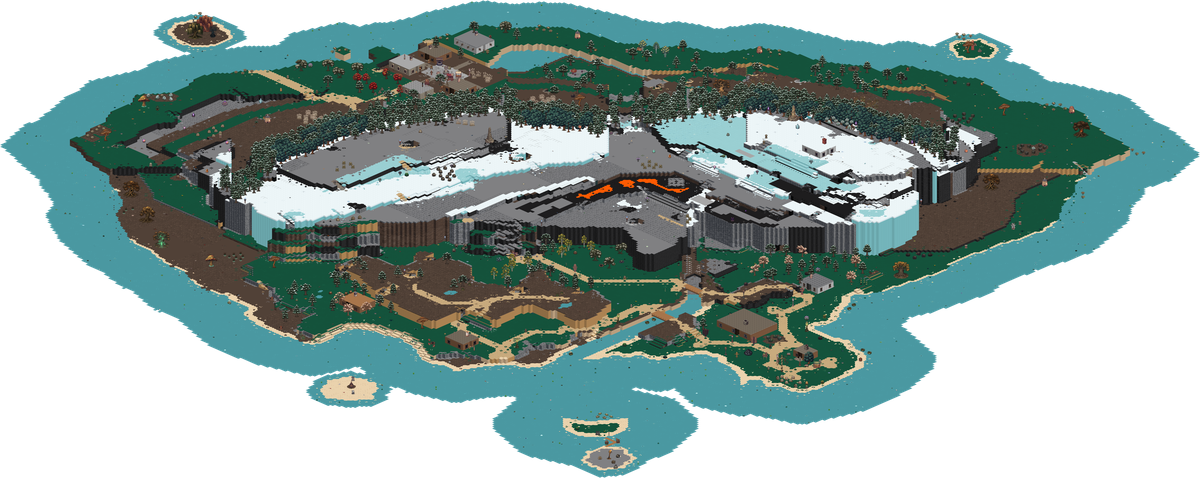
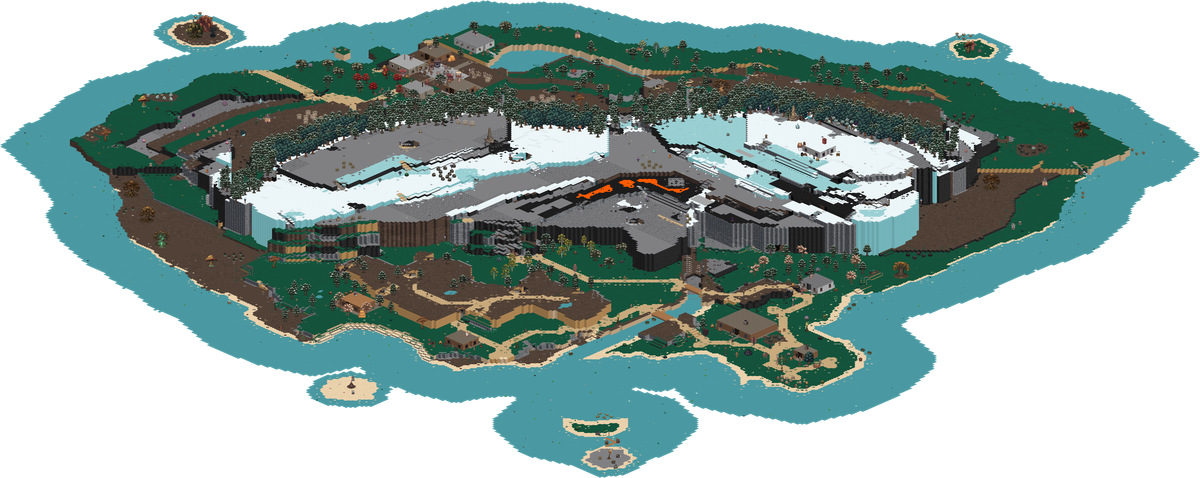
render3: details at his 1 in 100, never on a ramp, never touching — the game's rule
render3 rolled ground details at 1/56 (the game's pre-slider rate) with no
alone rule and none of the game's ramp veto, so its pictures — and the
minimap in the map tab — carried details the world does not draw: 13 in one
28x26 window where the game draws 5 (maintainer 2026-09-19: 'on your image
I can see Scenery details I don't have in the game').

slope_index / detail_roll / detail_alone mirror tiles3's slopeIndexAt /
detailRoll / detailAlone on the same LCG and seed. Measured over the_game
against the game's resolver at 1/100: all 1,368 of its details drawn, 30
extra — 21 cells its cliff-foot vote composes (the port still owed) and 9
cells it never resolves. tiles3.test.ts 13/13. Minimap and overview
re-rendered; WORLD3.md's details row states the rule.

Claude-Session: https://claude.ai/code/session_013KdMLoibcfyNKLCYd6nBek

diff --git a/maps2/pipeline/render3.py b/maps2/pipeline/render3.py
@@ -317,15 +317,79 @@ def top_face_only(surf):
     return im
 
 
-DETAIL_FREQ = 1 / 56.0        # "once in a while"; overridable per ground by
-                              # live/tuning/tile_details.json if the wiki ever
-                              # publishes a rate (read below, absent today)
+DETAIL_FREQ = 1 / 100.0       # HIS DIAL'S DEFAULT: one detail in every 100
+                              # field cells (games2 detailrate.ts
+                              # DETAIL_EVERY_DEFAULT, maintainer 2026-09-13, off
+                              # the live game). 1/56 was the rate the game rolled
+                              # before he had a slider, and this renderer kept it
+                              # for six days: in one 28x26 window it drew 13
+                              # details where the game draws 5 (maintainer
+                              # 2026-09-19: "on your image I can see Scenery
+                              # details I don't have in the game"). Overridable
+                              # per ground by live/tuning/tile_details.json if
+                              # the wiki ever publishes a rate (absent today).
 _DETAIL_RATE = {}
 try:
     _DETAIL_RATE = json.load(open(os.path.join(
         REPO, "live", "tuning", "tile_details.json"))).get("rate", {})
 except Exception:
     pass
+
+
+def slope_index(g, L, ground, x, y, zl):
+    """THE SLOPE BITMASK for one cell (the game's `slopeIndexAt`): the corner
+    bit is set when a cell touching that corner is HIGHER and made of the SAME
+    ground. Corner order is the Wang order - NW, NE, SW, SE - bit `8 >> i`."""
+    idx = 0
+    for bit, (cxx, cyy) in enumerate(((x, y), (x + 1, y),
+                                      (x, y + 1), (x + 1, y + 1))):
+        for ax, ay in ((cxx - 1, cyy - 1), (cxx, cyy - 1),
+                       (cxx - 1, cyy), (cxx, cyy)):
+            if L(ax, ay) > zl and g(ax, ay) == ground:
+                idx |= 8 >> bit
+                break
+    return idx
+
+
+def detail_roll(ground, x, y):
+    """THE DETAIL ROLL OF ONE CELL (the game's `detailRoll`): `u` against the
+    ground's rate, then the pick draw. None on the room floor, without a pool,
+    or when the roll fails. A pure function of (ground, x, y) and the rate, so
+    the game's three threads and this renderer agree on a cell AND on its
+    neighbours, which `detail_alone` needs."""
+    if ground == "parquet_floor":
+        return None
+    if not detail_pool(ground):
+        return None
+    rate = float(_DETAIL_RATE.get(ground, DETAIL_FREQ))
+    rd = _rng((x * 83492791) ^ (y * 2654435761) ^ 0xd47a)
+    u = rd()
+    return (u, rd()) if u < rate else None
+
+
+def detail_alone(g, L, x, y, u):
+    """NO TWO DETAILS TOUCHING (the game's `detailAlone`, maintainer 2026-09-13:
+    "a tile detail is a tile that doesn't look good repeated, but look very
+    good alone"). Among the raw winners of an 8-neighbourhood the SMALLEST roll
+    keeps its detail and every other yields - symmetric and order-free, so a
+    streaming window, a worker and this full sweep agree with no shared state.
+    A neighbour on a ramp never draws, so it never vetoes; a neighbour a fade
+    took still does."""
+    for dy in (-1, 0, 1):
+        for dx in (-1, 0, 1):
+            if not dx and not dy:
+                continue
+            nx, ny = x + dx, y + dy
+            gn = g(nx, ny)
+            if not gn:
+                continue
+            r = detail_roll(gn, nx, ny)
+            if not r or r[0] > u:
+                continue
+            if slope_index(g, L, gn, nx, ny, L(nx, ny)):
+                continue
+            return False
+    return True
 
 
 def detail_pool(ground):
@@ -1592,17 +1656,7 @@ def render(doc, x0=0, y0=0, x1=None, y1=None, scale=1.0, log=print,
                 # corner is higher and made of the same ground. This is what
                 # makes a path uphill read as a climb instead of a stack of
                 # flat diamonds (maintainer 2026-08-30).
-                sidx = 0
-                for bit, (cxx, cyy) in enumerate(((x, y), (x + 1, y),
-                                                  (x, y + 1), (x + 1, y + 1))):
-                    hi = False
-                    for ax, ay in ((cxx - 1, cyy - 1), (cxx, cyy - 1),
-                                   (cxx - 1, cyy), (cxx, cyy)):
-                        if L(ax, ay) > zl and g(ax, ay) == gr:
-                            hi = True
-                            break
-                    if hi:
-                        sidx |= 8 >> bit
+                sidx = slope_index(g, L, gr, x, y, zl)
                 if sidx:
                     sl = slope_tile(gr, sidx, x, y)
                     if sl is not None:
@@ -1667,15 +1721,16 @@ def render(doc, x0=0, y0=0, x1=None, y1=None, scale=1.0, log=print,
                 # DETAILS: once in a while, one of his top-approved tops -
                 # wherever no fade landed (a band cell whose roll failed
                 # included), never on the room floor (the game's rule: a
-                # parquet room is one floor, not a floor with pebbles).
-                if gr == "parquet_floor":
+                # parquet room is one floor, not a floor with pebbles),
+                # NEVER ON A RAMP (a slope cell keeps its graded tile) and
+                # NEVER TOUCHING ANOTHER (`detail_alone`) - the game's three
+                # clauses of 2026-09-13, at his 1-in-100 (`DETAIL_FREQ`).
+                if gr == "parquet_floor" or sidx:
                     return t
-                dp = detail_pool(gr)
-                if dp:
-                    rate = float(_DETAIL_RATE.get(gr, DETAIL_FREQ))
-                    rd = _rng((x * 83492791) ^ (y * 2654435761) ^ 0xd47a)
-                    if rd() < rate:
-                        return dp[int(rd() * len(dp)) % len(dp)]
+                roll = detail_roll(gr, x, y)
+                if roll and detail_alone(g, L, x, y, roll[0]):
+                    dp = detail_pool(gr)
+                    return dp[int(roll[1] * len(dp)) % len(dp)]
                 return t
 
             if gr in liq:

diff --git a/maps2/spec/WORLD3.md b/maps2/spec/WORLD3.md
@@ -1813,7 +1813,7 @@ a crop would move the dot off the player.
 | decks | `decks` (roof, bridge, cave lid) | a slab whose top rides at its own level, drawn **at the end of its own DIAGONAL** — after that diagonal's terrain, before the next — so the cells in front cover whatever hangs below it, the way a cell's own wall band is covered by the same-level cell in front. Drawn after every cell in the window (the game's `windowOps` order, and this renderer's until 2026-09-09), a lid whose field continues at its own level beyond its south/east edge stood its skirt on the meadow: measured with a thickness-2 cave lid at 12 in a level-12 field, a two-storey grey wall along the edge, a one-storey band at thickness 0. Raised on the games2 board. **Per diagonal, not inside the cell body**: a liquid cell and a level-0 cell each leave that body early, so a first cut that called it there dropped every span over water or flat ground — the pier and both river bridges vanished from the render. The cap band still hangs where the front is open, which is the lintel over a doorway. |
 | boundaries | `tiles/patterns` x `tiles/plates` | patterns publishes the **material-independent** Wang boundary and nothing else; the two grounds it divides come from their own set members. So **every pair is covered**, including roads (`light_soil` beside `grass`, the 2nd most common boundary on the_game) — no per-pair set is required. Corner lattice, index `8*NW+4*NE+2*SW+1*SE`; each half asks for **its own ground's** region. Only where the quad shares one level. **WATER LIES FLAT**: a corner within one storey votes its own ground (the game's `BOUNDARY_STEP`, so a terrace rim still blends), but a LIQUID corner votes only at the cell's OWN level — one storey of tolerance let the sea compose into the top face of the step above it, water running up a stair on a cell a whole level clear of it (maintainer 2026-09-11, ringing the bottom step of a shore staircase: *"The ground on that stair has fucking water on it!"*; 8 cells of the_game, every one land at level 1 beside water at 0). A WATER cell still composes its land corner, which is the shore tile that is "not 100% water or 100% beach". **tiles3 carries the unamended rule** and the parity fixture pins the old stream — raised on the games2 board. |
 | fades | `tiles/fades` (`tiles3/fade-tiles@1`) | top-only mix tiles that warm the player up for a ground change **before** the switch. Placed by `edge_ground`, never by area majority ("big rocks ON an ice sheet"). **APPROVED ONLY** — he rates this layer actively (480 approved, 345 rejected of 3,575), so an unjudged tile is not a candidate; survivors are weighted by his rating. A **scattered event** over a real Chebyshev distance band, never a coat of one tile. The share that orders a pool and steers the falloff is **`area_pct`, the measured top-face area** — not `pct`, which is the producer's placement label (`pct[edge] = 51 + 49*area_edge`, built so the edge winner is always the majority, so `pct[other]` is 0.49 x the real area and never exceeds 49). Ordering is the same either way (monotone), but the number the dial interpolates over is the real one now. **Floor 1%, no ceiling**: the old `<= 55` could never fire under `pct`, and on the real area it would cut 725 tiles across 120 of the 207 pools and empty two — an INVERTED tile (area majority rock, rim ice) is valid and places on ice, his own 2026-08-28 ruling. Every pool is identical to the one that shipped; what moves is which tile the falloff picks inside it. **The game still reads `pct`** (`tiles3.ts fadeTier`), so until it makes the same switch the parity fixture cannot be regenerated — posted to games. |
-| details | `live/feedback/tiles.json` `<key>#top` approvals, then `tiles/tops/index.json` | **The x-over-y `#top` approvals first, then his detail LIBRARY** — every `flavour: detail` sheet's tile whose `<dir>/<tile>#top` verdict is approved (2,549 of 9,840 on 2026-09-12), drawn as its `post/` file matched by stem, never a constructed name. Index order, no existence check (the index is gated to 0 dangling files; a miss is loud, a shorter pool would shift every index after it) — the game's `detailPool` (tiles3.ts) builds the same list in the same order, so the per-cell roll `(x*83492791) ^ (y*2654435761) ^ 0xd47a` at `DETAIL_FREQ` 1/56 lands on the same tile in both. A tile **rejected as a pair** (bad wall) can still be a top-approved detail — the two reviews are independent by design. Conformed, so a detail's foreign lava/ice/sand wall never leaks into a field; never on `parquet_floor`. |
+| details | `live/feedback/tiles.json` `<key>#top` approvals, then `tiles/tops/index.json` | **The x-over-y `#top` approvals first, then his detail LIBRARY** — every `flavour: detail` sheet's tile whose `<dir>/<tile>#top` verdict is approved (2,549 of 9,840 on 2026-09-12), drawn as its `post/` file matched by stem, never a constructed name. Index order, no existence check (the index is gated to 0 dangling files; a miss is loud, a shorter pool would shift every index after it) — the game's `detailPool` (tiles3.ts) builds the same list in the same order, so the per-cell roll `(x*83492791) ^ (y*2654435761) ^ 0xd47a` at `DETAIL_FREQ` **1/100** — his dial's default (games2 `detailrate.ts`, 2026-09-13; 1/56 was the pre-slider rate, and render3 kept it six days too long) — lands on the same tile in both, under the same three clauses: never on the room floor, **never on a ramp** (a slope cell keeps its graded tile), **never touching another** (`detail_alone`: among the raw winners of an 8-ring the smallest roll keeps its detail; a neighbour on a ramp never vetoes, a neighbour a fade took still does). A tile **rejected as a pair** (bad wall) can still be a top-approved detail — the two reviews are independent by design. Conformed, so a detail's foreign lava/ice/sand wall never leaks into a field; never on `parquet_floor`. |
 | slopes | `tiles/slopes` (`tiles3/slopes@1`) | a Wang set on **elevation** (bit = that corner is raised), same 64x46 frame as a plate. A cell takes the graded tile when its **own** ground rises beside it. **Gated per tile on his verdicts** — he has judged 15 of 225 sets, so `light_soil` and `water` get no slope rather than an invented one. Every published set is a **4px sub-storey** grade: it softens the foot of a rise, it cannot bridge a 17px storey (storey-height sets requested from tiles). |
 | toggles | `live/tuning/tile_walls.json`, `top_walls.json`, `tile_tops.json` | `top_only` (this tile's wall is unusable) **paired with** `wall:` (the wall it borrows instead) — two files, and reading only the first left the mark dead. `own_top` keeps the x-over-y tile's own top instead of painting the set surface over it. |
 | scenery | `scenery/<piece>/scenery.json` + `live/tuning/scenery_hitbox.json` | sprite scaled to the height the GAME draws, `world_px_height × 88 / character_height_px` — **never the raw contract number** (`maps2/pipeline/sceneryscale.py`); feet at (x,y); `hflip` honoured (`must_be_imbplemented_with_random_hflip`); pieces under roof/cave decks skip (indoors). The hitbox is the wiki's, keyed `<path>#<state>` per variation, and the placement is centred on it — see above. |
